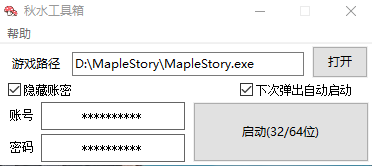
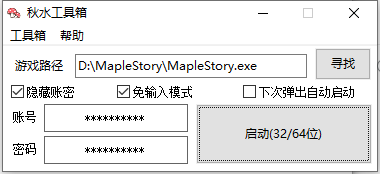
2.0.0

diff --git a/README.md b/README.md
@@ -1,29 +1,48 @@
 # QsTools 秋水工具箱
 
-香港橘子Beanfun小工具，一体化网页登录解决方案。
+香港橘子`Beanfun`登录工具箱。
 
-支持TMS 32/64位台服新枫之谷运行，图个方便，易语言开发的，开源自取。
+一体化网页登录最佳解决方案。
+
+`1.1.2`版本以上支持`TMS` `32/64位`台服新枫之谷运行。
+
+`1.1.1`版本以下包括`1.1.1`存在问题，请使用`1.1.2`版本以上。
 
 ## 介绍
 
-感谢下面的大神提供思路和开源代码
+本工具由易语言`5.9.2`版本编写，遵循`MIT`协议。
 
-- [pungin](https://github.com/pungin)的[Beanfun登录器](TwMS-Helper
-)
-- [InWILL](https://github.com/InWILL)的[**Locale_RemulatorV1.4.1**](https://github.com/InWILL/Locale_Remulator)
+感谢下面的开源大神提供思路和代码
+
+- [pungin/TwMS-Helper)](https://github.com/pungin/TwMS-Helper)
+- [**InWILL/Locale_RemulatorV1.4.3**](https://github.com/InWILL/Locale_Remulator)
+
+
+
+## 已实现
+
+1. 一键设置IE各种兼容问题，如
+   1. 让IE不再弹出"显示所有内容"。
+   2. 兼容视图设置`beanfun.com`。
+   3. 网页启动游戏路径自动设置。
+2. 免输入模式，省去复制粘贴账号密码的烦恼。
+3. 网页启动时自动启动游戏
+4. 装备星力卷轴计算器（24星以上暂不准确）
+5. 陆续添加....
 
 
 
 
-## 截图
+## 工具图
 ![img](./img1.png)
 ![img](./img2.png)
 
+![](./img3.png)
+
 ## 使用
 
-1. 运行QsTools-Install.exe 
-2. 按照说明进行使用
-
+1. 运行`QsTools-Install.exe`
+2. 按照提示做完三步，打开网页，启动游戏吧.
 
 ## 下载
 
